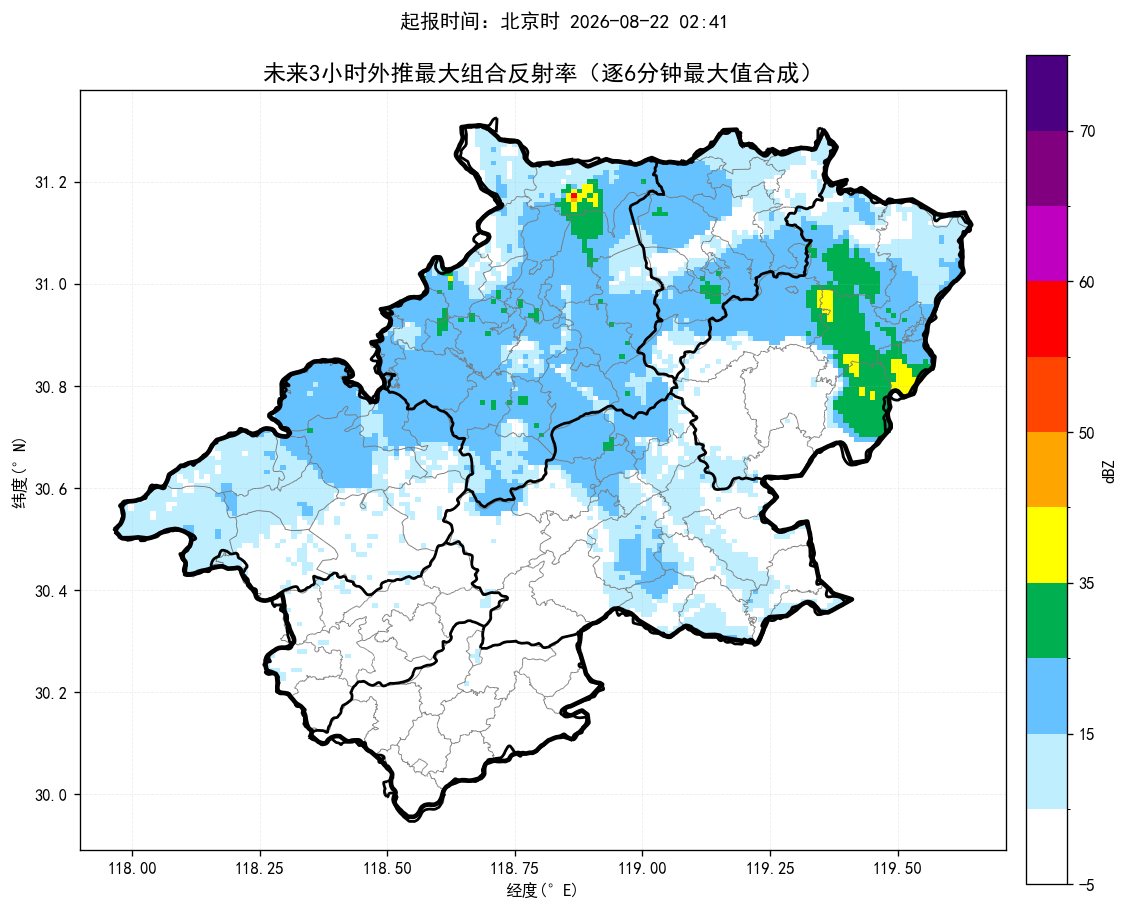
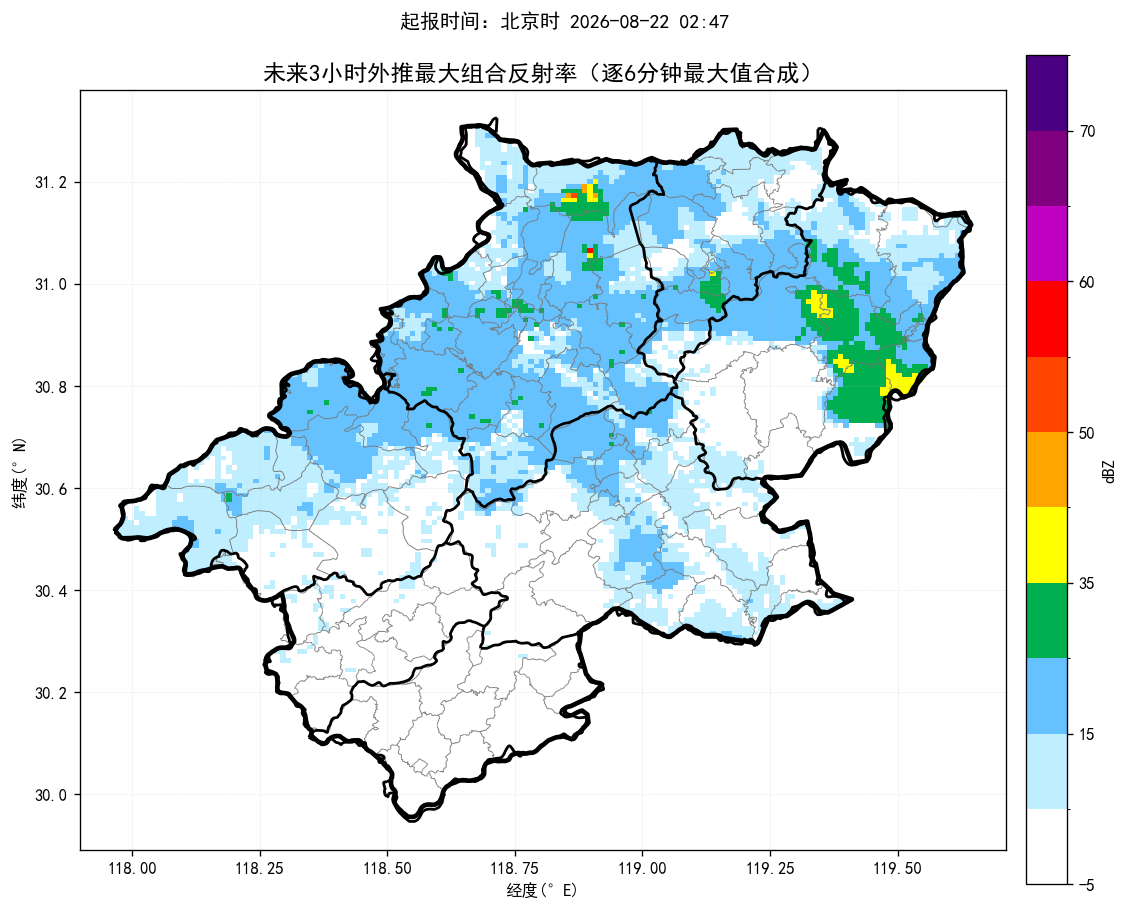
update nowcast products

diff --git a/index.html b/index.html
@@ -14,14 +14,14 @@ img.product{display:block;width:100%;height:auto;margin:10px auto 26px;border:1p
 .footer{font-size:13px;color:#777;text-align:center;margin-top:30px}
 @media(max-width:700px){.sheet{margin:0;padding:18px 15px}.alert-title{font-size:22px}.county-line{font-size:17px}.prob{font-size:18px}}
 </style></head><body><main class="sheet">
-<div class="time">起报时间：北京时 2026-08-22 02:41</div>
-<div class="alert-title">未来一小时降水量超过 20 毫米的乡镇：</div><div class="county-line">宣州区：狸桥镇</div>
+<div class="time">起报时间：北京时 2026-08-22 02:47</div>
+<div class="alert-title">未来一小时降水量超过 20 毫米的乡镇：</div><div class="county-line">宣州区：沈村镇、狸桥镇</div>
 <div class="alert-title">未来三小时降水量超过 50 毫米的乡镇：</div><div class="county-line">无</div>
-<div class="alert-title">未来三小时雷暴大风（组合反射率 > 55 dBZ）的乡镇：</div><div class="county-line">宣州区：狸桥镇</div>
-<div class="prob">最大降水量概率预估：宣城市范围内未来三小时累计降水达到50毫米概率约24%，达到80毫米概率约2%，达到100毫米概率约0%。</div>
-<div class="section-title">未来降水预报图：</div><img class="product auto-refresh-product" data-src="短临降水预报.png" src="短临降水预报.png?v=20260822024751" alt="未来降水预报图">
-<div class="section-title">未来三小时组合反射率图：</div><img class="product auto-refresh-product" data-src="未来3小时组合反射率.png" src="未来3小时组合反射率.png?v=20260822024751" alt="未来三小时组合反射率图">
-<div class="section-title">未来三小时雷暴大风图：</div><img class="product auto-refresh-product" data-src="未来3小时雷暴大风.png" src="未来3小时雷暴大风.png?v=20260822024751" alt="未来三小时雷暴大风图">
+<div class="alert-title">未来三小时雷暴大风（组合反射率 > 55 dBZ）的乡镇：</div><div class="county-line">宣州区：沈村镇</div>
+<div class="prob">最大降水量概率预估：宣城市范围内未来三小时累计降水达到50毫米概率约31%，达到80毫米概率约2%，达到100毫米概率约0%。</div>
+<div class="section-title">未来降水预报图：</div><img class="product auto-refresh-product" data-src="短临降水预报.png" src="短临降水预报.png?v=20260822025331" alt="未来降水预报图">
+<div class="section-title">未来三小时组合反射率图：</div><img class="product auto-refresh-product" data-src="未来3小时组合反射率.png" src="未来3小时组合反射率.png?v=20260822025331" alt="未来三小时组合反射率图">
+<div class="section-title">未来三小时雷暴大风图：</div><img class="product auto-refresh-product" data-src="未来3小时雷暴大风.png" src="未来3小时雷暴大风.png?v=20260822025331" alt="未来三小时雷暴大风图">
 <div class="footer">三张产品图每 60 秒自动刷新一次；每次请求自动附加新的URL参数以绕过缓存。</div>
 <script>
 (function() {
